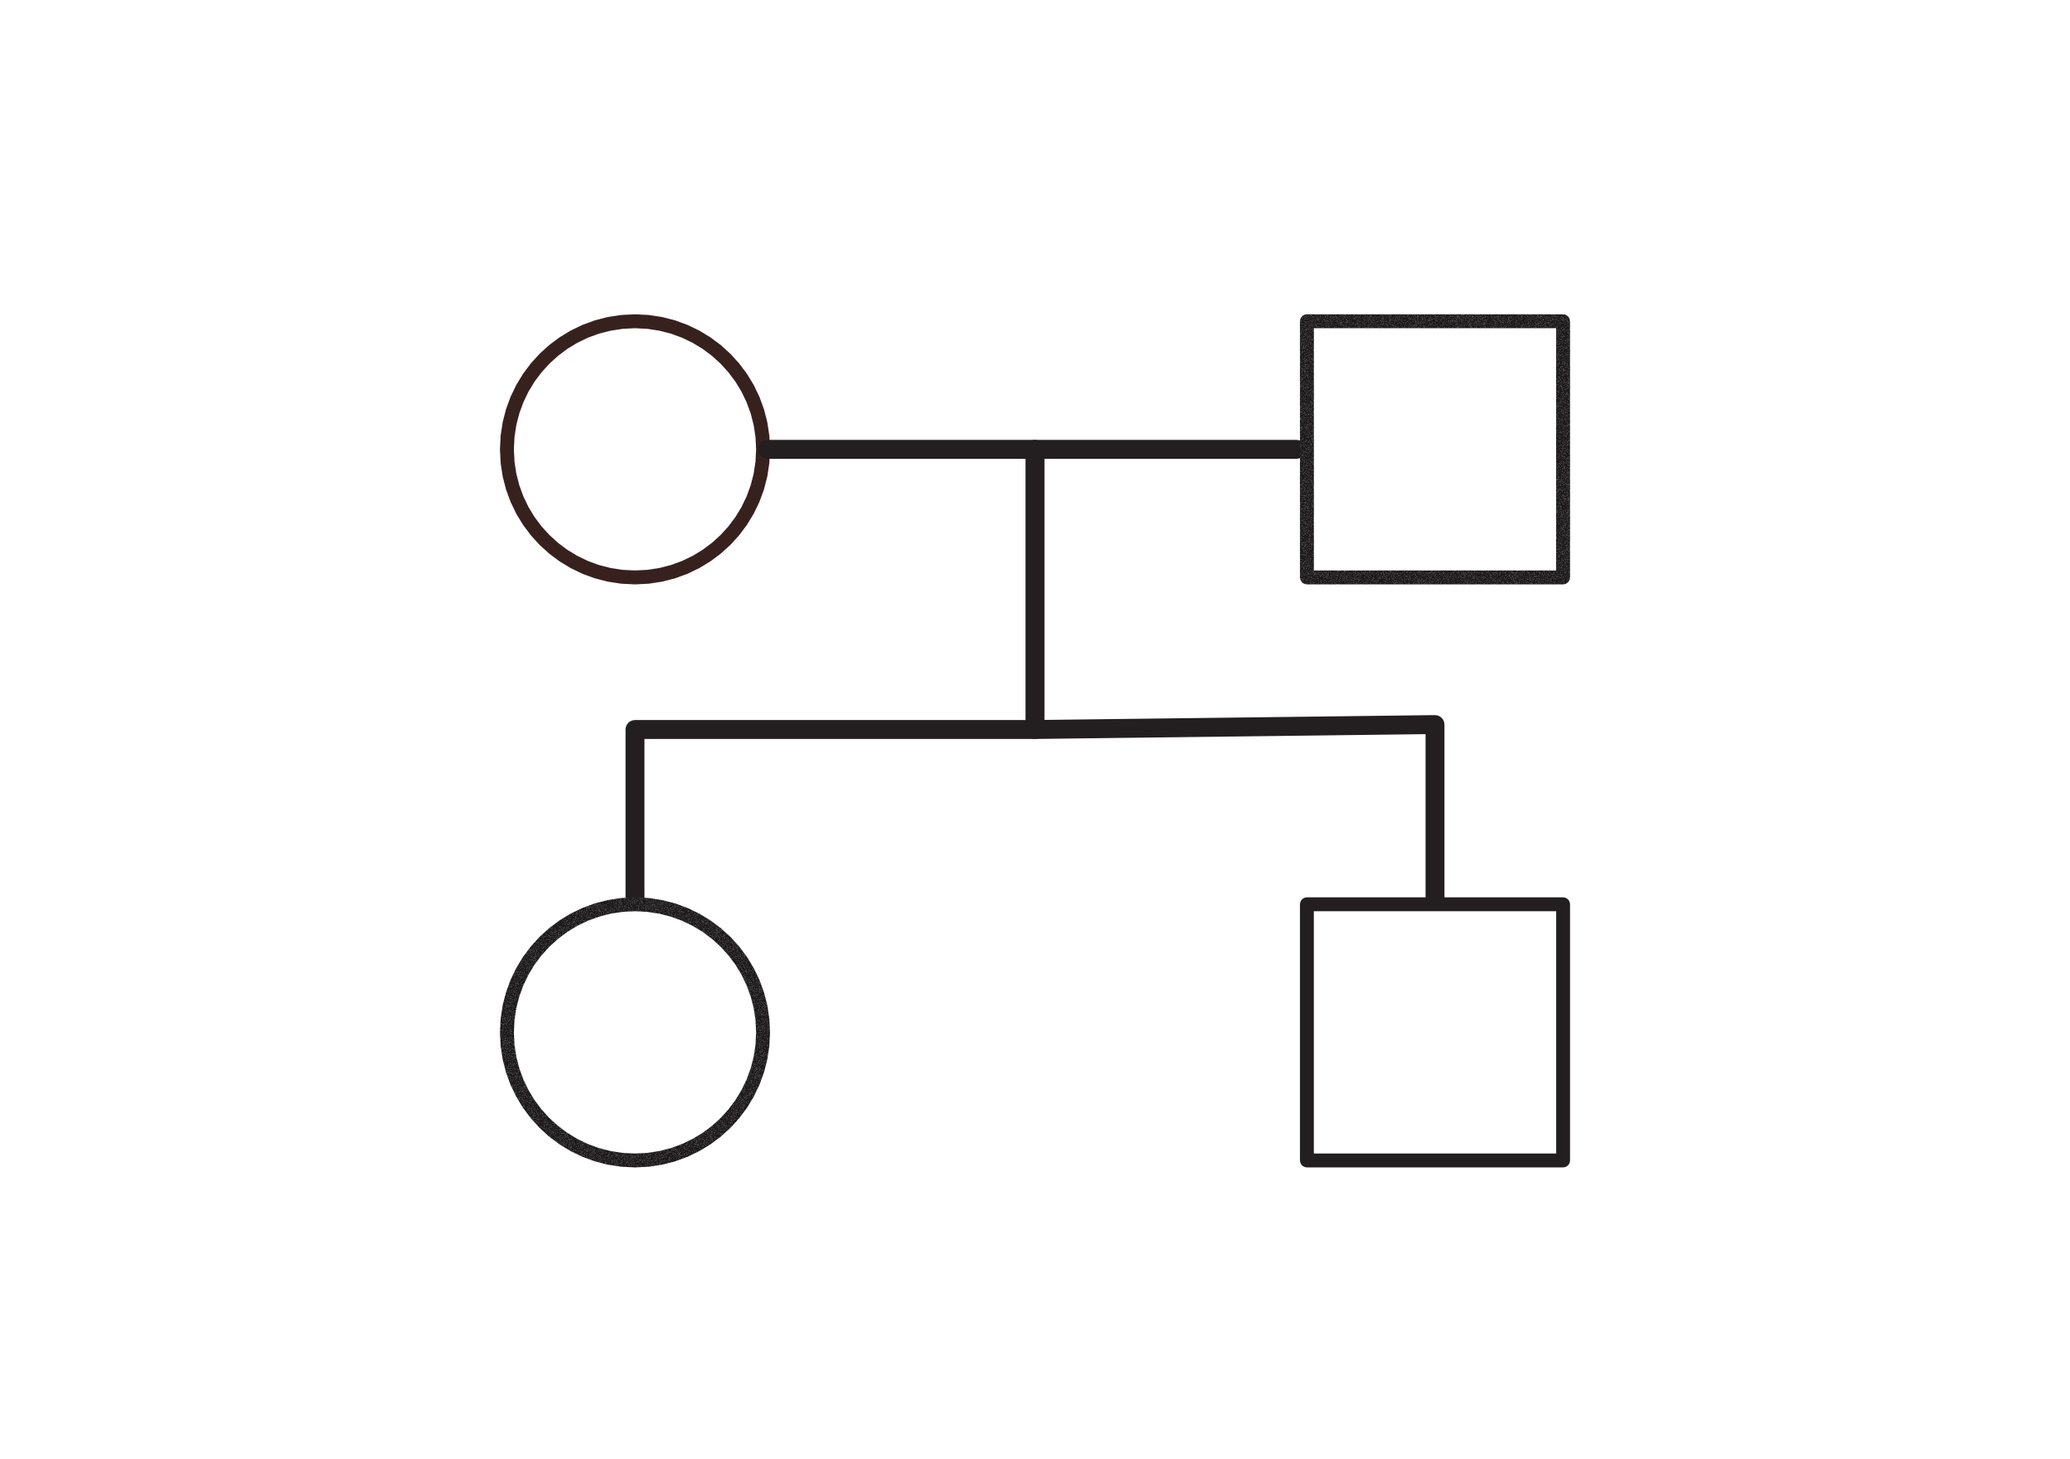
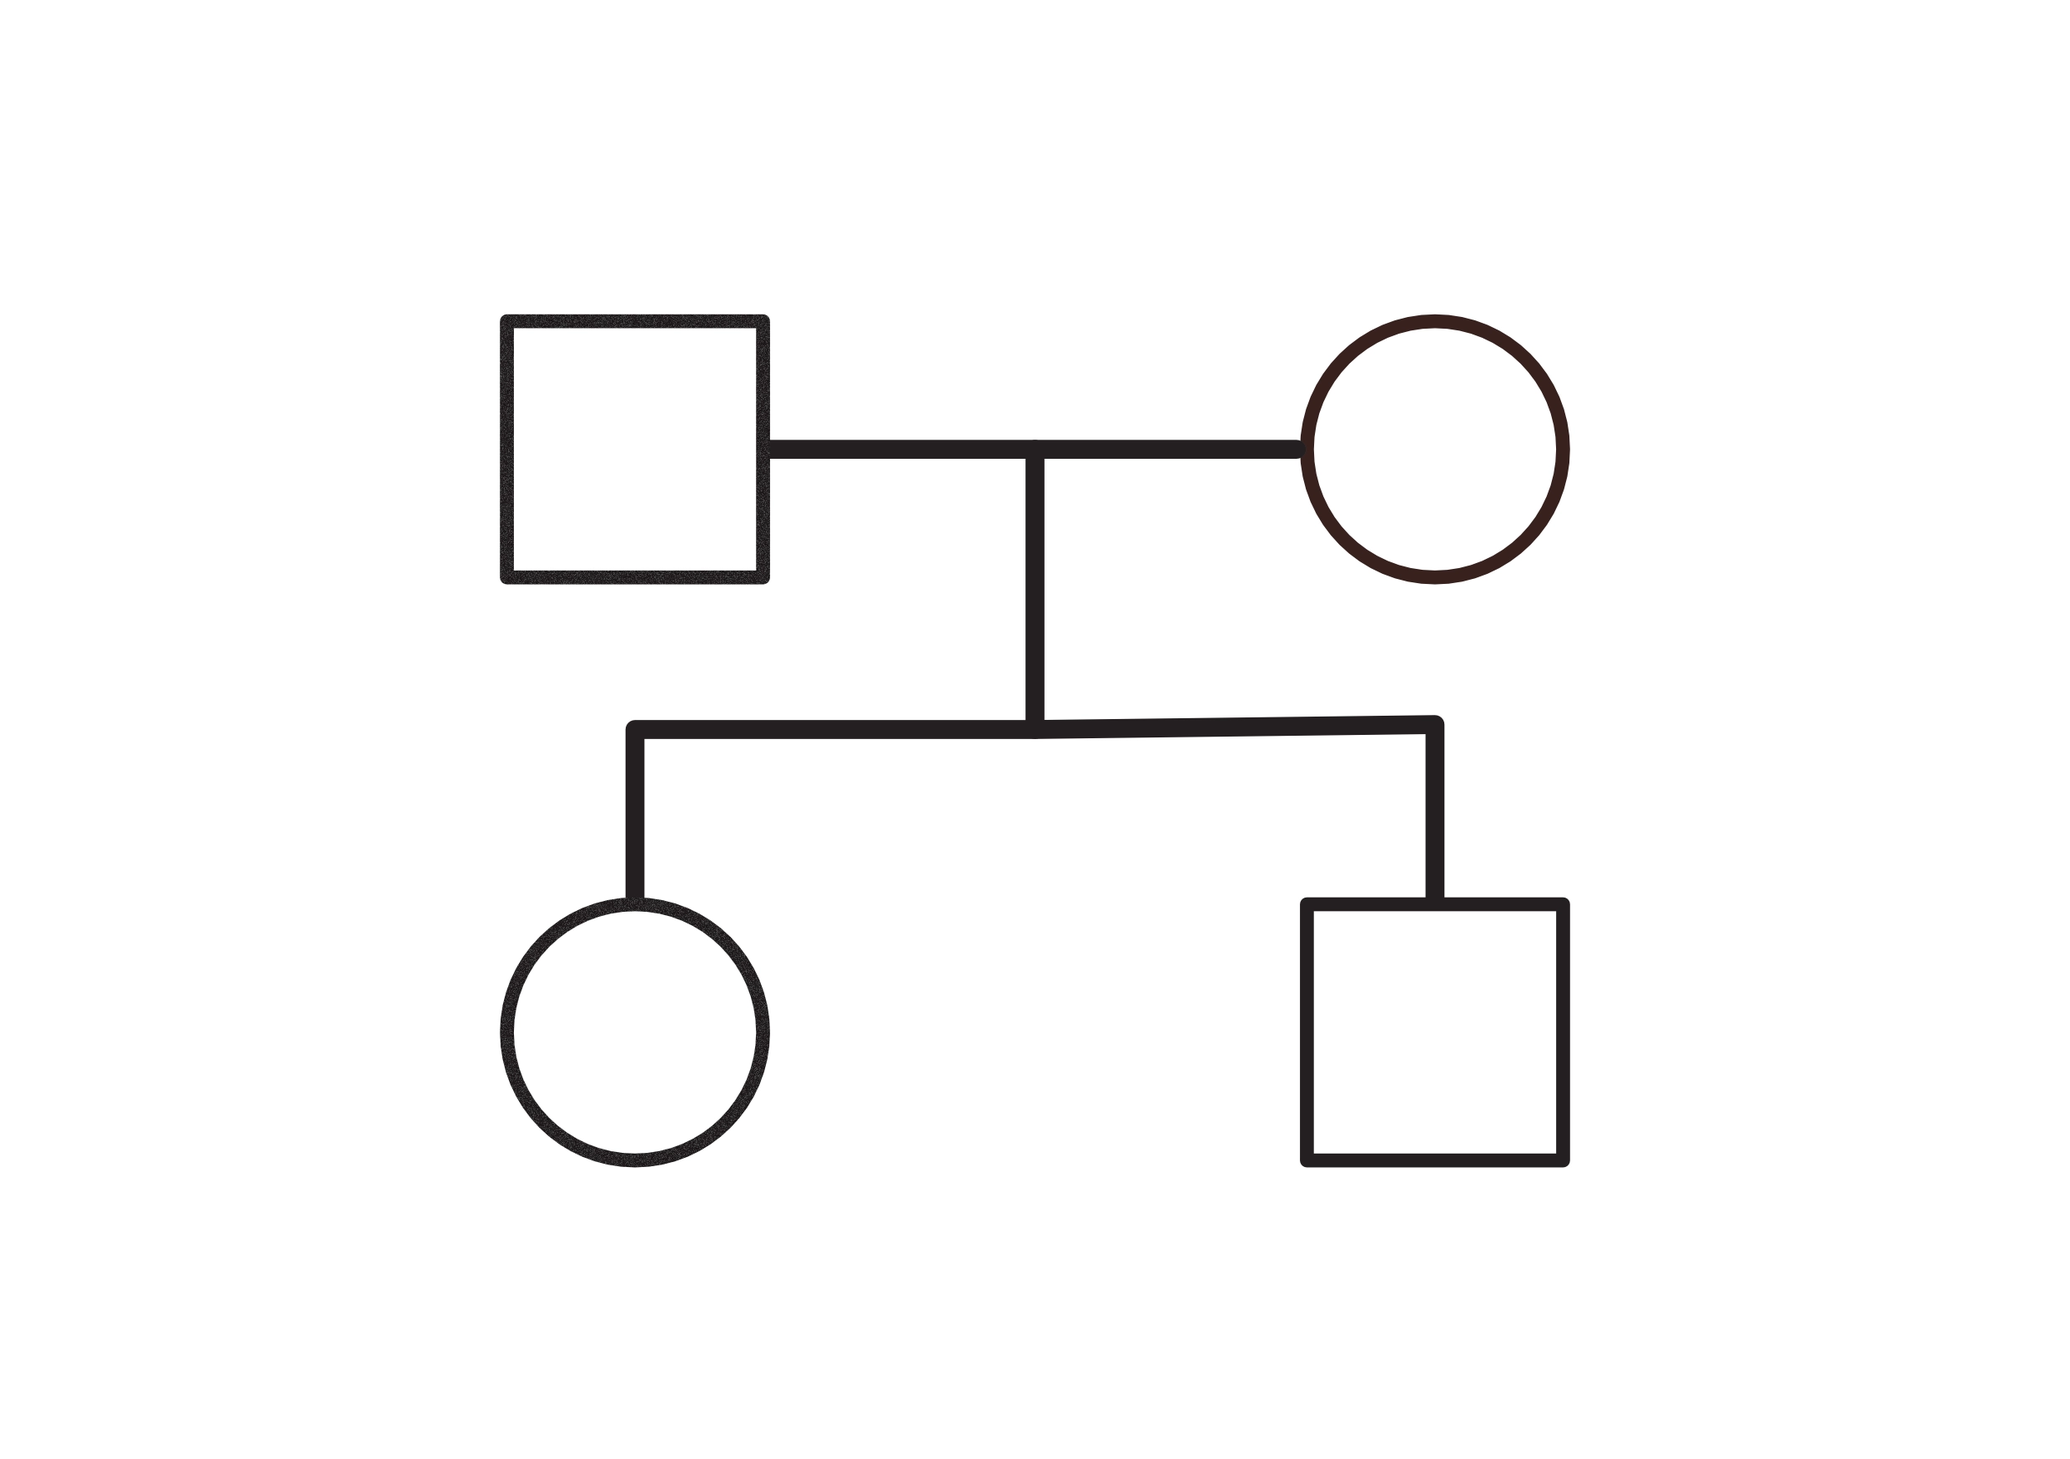
Refactor code structure for improved readability and maintainability

Changed region(s): [[0.6207, 0.2161, 0.7759, 0.4014], [0.2173, 0.2161, 0.3724, 0.4014]]

diff --git a/js/app.js b/js/app.js
@@ -15,7 +15,8 @@ const DATA_SHEET_ID = '1xFjjrZhBXZWlMkgARjrhQnZraRWS2uNUZfaNqvzQjV8';
 const LOCAL_PROJECT_CATALOG = {
     '1r ESO': [
         { id: 'p1_rates', titol: 'Rates a la carrera', descripcio: 'Projecte de biologia i matematiques.' },
-        { id: 'p1_mediterrani', titol: 'Mediterrani', descripcio: 'Historia i geografia del mar Mediterrani.' }
+        { id: 'p1_mediterrani', titol: 'Mediterrani', descripcio: 'Historia i geografia del mar Mediterrani.' },
+        { id: 'p1_biologia', titol: 'Biologia 1r ESO', descripcio: 'Conceptes de Biologia i material de laboratori.' }
     ],
     '2n ESO': [
         { id: 'p2_paralimpics', titol: 'Paralimpics', descripcio: 'Educacio fisica i valors.' },
@@ -23,11 +24,13 @@ const LOCAL_PROJECT_CATALOG = {
         { id: 'p2_radio', titol: 'Radio', descripcio: 'Comunicacio, locucio i edicio radiofonica.' }
     ],
     '3r ESO': [
-        { id: 'p3_solidart', titol: 'SolidArt', descripcio: 'Art i solidaritat.' }
+        { id: 'p3_solidart', titol: 'SolidArt', descripcio: 'Art i solidaritat.' },
+        { id: 'p3_biologia', titol: 'Biologia 3r ESO', descripcio: 'Biologia humana i activitats de repas.' }
     ],
     '4t ESO': [
         { id: 'p4_natura', titol: 'Entorns de Natura', descripcio: 'Medi ambient i sostenibilitat.' },
-        { id: 'p4_digitalitzacio', titol: 'Digitalitzacio', descripcio: 'Eines i recursos digitals per al segle XXI.' }
+        { id: 'p4_digitalitzacio', titol: 'Digitalitzacio', descripcio: 'Eines i recursos digitals per al segle XXI.' },
+        { id: 'p4_biologia', titol: 'Biologia 4t ESO', descripcio: 'Genetica, pedigrees i herencia.' }
     ],
     '1r Batxillerat': [
         { id: 'batx1_tr', titol: 'Treball de recerca', descripcio: 'Aprendre a formular bones preguntes investigables.' }
@@ -35,7 +38,8 @@ const LOCAL_PROJECT_CATALOG = {
     '2n Batxillerat': [],
     '1ESO': [
         { id: 'p1_rates', titol: 'Rates a la carrera', descripcio: 'Projecte de biologia i matematiques.' },
-        { id: 'p1_mediterrani', titol: 'Mediterrani', descripcio: 'Historia i geografia del mar Mediterrani.' }
+        { id: 'p1_mediterrani', titol: 'Mediterrani', descripcio: 'Historia i geografia del mar Mediterrani.' },
+        { id: 'p1_biologia', titol: 'Biologia 1r ESO', descripcio: 'Conceptes de Biologia i material de laboratori.' }
     ],
     '2ESO': [
         { id: 'p2_paralimpics', titol: 'Paralimpics', descripcio: 'Educacio fisica i valors.' },
@@ -43,11 +47,13 @@ const LOCAL_PROJECT_CATALOG = {
         { id: 'p2_radio', titol: 'Radio', descripcio: 'Comunicacio, locucio i edicio radiofonica.' }
     ],
     '3ESO': [
-        { id: 'p3_solidart', titol: 'SolidArt', descripcio: 'Art i solidaritat.' }
+        { id: 'p3_solidart', titol: 'SolidArt', descripcio: 'Art i solidaritat.' },
+        { id: 'p3_biologia', titol: 'Biologia 3r ESO', descripcio: 'Biologia humana i activitats de repas.' }
     ],
     '4ESO': [
         { id: 'p4_natura', titol: 'Entorns de Natura', descripcio: 'Medi ambient i sostenibilitat.' },
-        { id: 'p4_digitalitzacio', titol: 'Digitalitzacio', descripcio: 'Eines i recursos digitals per al segle XXI.' }
+        { id: 'p4_digitalitzacio', titol: 'Digitalitzacio', descripcio: 'Eines i recursos digitals per al segle XXI.' },
+        { id: 'p4_biologia', titol: 'Biologia 4t ESO', descripcio: 'Genetica, pedigrees i herencia.' }
     ],
     '1Batx': [
         { id: 'batx1_tr', titol: 'Treball de recerca', descripcio: 'Aprendre a formular bones preguntes investigables.' }
@@ -845,7 +851,10 @@ function getProjectVisuals() {
         'p4_natura': { icon: '<img src="assets/images/activities/entorns/cards/targeta_entorns-card.jpg" alt="Entorns de Natura" class="project-card__image" decoding="async">', gradient: 'linear-gradient(135deg, #10b981, #059669)' },
         'p2_paralimpics': { icon: '<img src="assets/images/activities/paralimpics/cards/targeta-paralimpics.png" alt="Paralimpics" class="project-card__image" decoding="async">', gradient: 'linear-gradient(135deg, #f97316, #ea580c)' },
         'p4_digitalitzacio': { icon: '<img src="assets/images/activities/digitalitzacio/cards/targeta-digitalitzacio.png" alt="Digitalitzacio" class="project-card__image" decoding="async">', gradient: 'linear-gradient(135deg, #a855f7, #7c3aed)' },
+        'p1_biologia': { icon: '<img src="assets/images/activities/biologia/cards/repas-biologia-humana.png" alt="Biologia 1r ESO" class="project-card__image" decoding="async">', gradient: 'linear-gradient(135deg, #14b8a6, #0f766e)' },
         'p2_biologia': { icon: '<img src="assets/images/activities/biologia/cards/biologia_humana.png" alt="Biologia Humana" class="project-card__image" decoding="async">', gradient: 'linear-gradient(135deg, #ec4899, #db2777)' },
+        'p3_biologia': { icon: '<img src="assets/images/activities/biologia/cards/biologia_humana.png" alt="Biologia 3r ESO" class="project-card__image" decoding="async">', gradient: 'linear-gradient(135deg, #ec4899, #db2777)' },
+        'p4_biologia': { icon: '<img src="assets/images/activities/biologia/cards/targeta-genetica.png" alt="Biologia 4t ESO" class="project-card__image" decoding="async">', gradient: 'linear-gradient(135deg, #8b5cf6, #6d28d9)' },
         'p2_radio': { icon: '<img src="assets/images/activities/radio/targeta-radio.png" alt="Radio" class="project-card__image" decoding="async">', gradient: 'linear-gradient(135deg, #facc15, #ca8a04)' },
         'batx1_tr': { icon: '<img src="assets/images/activities/treball-recerca/cards/targeta-tr.png" alt="Treball de recerca" class="project-card__image" decoding="async">', gradient: 'linear-gradient(135deg, #f43f5e, #e11d48)' }
     };
@@ -885,6 +894,10 @@ function renderProjectCards(grid, projects) {
         });
         grid.appendChild(card);
     });
+}
+
+function isBiologiaProject(projectId) {
+    return ['p1_biologia', 'p2_biologia', 'p3_biologia', 'p4_biologia'].includes(projectId);
 }
 
 async function getApiProjectsForCourses(courses) {
@@ -1047,7 +1060,7 @@ async function openProject(project) {
                 showDigitalitzacioMenu();
             }
         }
-    } else if (project.id === 'p2_biologia') {
+    } else if (isBiologiaProject(project.id)) {
         const hubDiv = await ensureProjectFragment(
             'project-hub-biologia',
             'fragments/projects/biologia/index.html'
@@ -1414,6 +1427,31 @@ const BIO_SENSE_TITLES = {
     tacte: 'Tacte'
 };
 
+const BIO_PROJECT_SCOPES = {
+    p1_biologia: ['conceptes', 'laboratori'],
+    p4_biologia: ['genetica']
+};
+
+function getCurrentBioProjectScope() {
+    const projectId = state.currentProject ? state.currentProject.id : '';
+    return BIO_PROJECT_SCOPES[projectId] || null;
+}
+
+function isBioSystemAllowed(systemId) {
+    const scope = getCurrentBioProjectScope();
+    return !scope || scope.includes(systemId);
+}
+
+function applyBioProjectScope() {
+    const scope = getCurrentBioProjectScope();
+
+    document.querySelectorAll('#bio-systems-menu [data-bio-system]').forEach(card => {
+        const systemId = card.getAttribute('data-bio-system');
+        const isVisible = !scope || scope.includes(systemId);
+        card.classList.toggle('hidden', !isVisible);
+    });
+}
+
 function showBioMenu() {
     setGameTitle(state.currentProject ? state.currentProject.titol : 'Biologia');
 
@@ -1424,6 +1462,7 @@ function showBioMenu() {
     const hub = document.getElementById('project-hub-biologia');
     if (hub) {
         document.getElementById('bio-systems-menu').classList.remove('hidden');
+        applyBioProjectScope();
         // Hide all sub-activity lists and individual activities
         document.querySelectorAll('#project-hub-biologia .activities-grid:not(#bio-systems-menu)').forEach(el => el.classList.add('hidden'));
         document.querySelectorAll('#project-hub-biologia .sub-activity').forEach(el => el.classList.add('hidden'));
@@ -1431,6 +1470,11 @@ function showBioMenu() {
 }
 
 function openBioSystem(systemId) {
+    if (!isBioSystemAllowed(systemId)) {
+        showBioMenu();
+        return;
+    }
+
     setGameTitle(BIO_SYSTEM_TITLES[systemId] || 'Biologia');
 
     if (typeof resetBioLabToolsGame === 'function') {

diff --git a/fragments/activities/biologia/index.html b/fragments/activities/biologia/index.html
@@ -2,7 +2,7 @@
 
                     <div id="bio-systems-menu" class="activities-grid mt-4">
                         <!-- 1. Digestiu -->
-                        <div class="activity-card activity-card--disabled">
+                        <div class="activity-card activity-card--disabled" data-bio-system="digestiu">
                             <div class="activity-card__media">
                                 <img src="assets/images/activities/biologia/systems/aparell-digestiu.png" alt="Aparell Digestiu" class="activity-card__image">
                             </div>
@@ -14,7 +14,7 @@
                         </div>
 
                         <!-- 2. Circulatori -->
-                        <div class="activity-card" onclick="openBioSystem('circulatori')">
+                        <div class="activity-card" data-bio-system="circulatori" onclick="openBioSystem('circulatori')">
                             <div class="activity-card__media">
                                 <img src="assets/images/activities/biologia/systems/aparell-ciculatori.png" alt="Aparell Circulatori" class="activity-card__image">
                             </div>
@@ -25,7 +25,7 @@
                         </div>
 
                         <!-- 3. Respiratori -->
-                        <div class="activity-card activity-card--disabled">
+                        <div class="activity-card activity-card--disabled" data-bio-system="respiratori">
                             <div class="activity-card__media">
                                 <img src="assets/images/activities/biologia/systems/aparell-respiratori.png" alt="Aparell Respiratori" class="activity-card__image">
                             </div>
@@ -37,7 +37,7 @@
                         </div>
 
                         <!-- 4. Excretor -->
-                        <div class="activity-card" onclick="openBioSystem('excretor')">
+                        <div class="activity-card" data-bio-system="excretor" onclick="openBioSystem('excretor')">
                             <div class="activity-card__media">
                                 <img src="assets/images/activities/biologia/systems/aparell-excretor.png" alt="Aparell Excretor" class="activity-card__image">
                             </div>
@@ -48,7 +48,7 @@
                         </div>
 
                         <!-- 5. Òrgans dels Sentits -->
-                        <div class="activity-card" onclick="openSenseMenu()">
+                        <div class="activity-card" data-bio-system="sentits" onclick="openSenseMenu()">
                             <div class="activity-card__media">
                                 <img src="assets/images/activities/biologia/senses/organs-sentits.png" alt="Òrgans dels Sentits" class="activity-card__image">
                             </div>
@@ -59,7 +59,7 @@
                         </div>
 
                         <!-- 6. Sistema Endocrí -->
-                        <div class="activity-card" onclick="openBioSystem('endocri')">
+                        <div class="activity-card" data-bio-system="endocri" onclick="openBioSystem('endocri')">
                             <div class="activity-card__media">
                                 <img src="assets/images/activities/biologia/systems/sistema-endocri.png" alt="Sistema Endocrí" class="activity-card__image">
                             </div>
@@ -70,7 +70,7 @@
                         </div>
 
                         <!-- 7. Aparell Locomotor -->
-                        <div class="activity-card" onclick="openBioSystem('locomotor')">
+                        <div class="activity-card" data-bio-system="locomotor" onclick="openBioSystem('locomotor')">
                             <div class="activity-card__media">
                                 <img src="assets/images/activities/biologia/systems/aparell-locomotor.png" alt="Aparell Locomotor" class="activity-card__image">
                             </div>
@@ -81,7 +81,7 @@
                         </div>
 
                         <!-- 8. Sistema Immunitari -->
-                        <div class="activity-card" onclick="openBioSystem('immunitari')">
+                        <div class="activity-card" data-bio-system="immunitari" onclick="openBioSystem('immunitari')">
                             <div class="activity-card__media">
                                 <img src="assets/images/activities/biologia/systems/sistema-immunitari.png" alt="Sistema Immunitari" class="activity-card__image" onerror="this.onerror=null; this.src='https://img.icons8.com/isometric/512/quiz.png';">
                             </div>
@@ -92,7 +92,7 @@
                         </div>
 
                         <!-- 9. Aparell Reproductor -->
-                        <div class="activity-card" onclick="openBioSystem('reproductor')">
+                        <div class="activity-card" data-bio-system="reproductor" onclick="openBioSystem('reproductor')">
                             <div class="activity-card__media">
                                 <img src="assets/images/activities/biologia/systems/aparell-reproductor.png" alt="Aparell Reproductor" class="activity-card__image" onerror="this.onerror=null; this.src='https://img.icons8.com/isometric/512/quiz.png';">
                             </div>
@@ -103,7 +103,7 @@
                         </div>
 
                         <!-- 10. Laboratori -->
-                        <div class="activity-card" onclick="openBioSystem('laboratori')">
+                        <div class="activity-card" data-bio-system="laboratori" onclick="openBioSystem('laboratori')">
                             <div class="activity-card__media">
                                 <img src="assets/images/activities/biologia/Lab/Labtools.png" alt="Laboratori de Biologia" class="activity-card__image" onerror="this.onerror=null; this.src='https://img.icons8.com/isometric/512/laboratory.png';">
                             </div>
@@ -114,7 +114,7 @@
                         </div>
 
                         <!-- 11. Conceptes -->
-                        <div class="activity-card" onclick="openBioSystem('conceptes')">
+                        <div class="activity-card" data-bio-system="conceptes" onclick="openBioSystem('conceptes')">
                             <div class="activity-card__media">
                                 <img src="assets/images/activities/biologia/cards/repas-biologia-humana.png" alt="Conceptes de Biologia" class="activity-card__image">
                             </div>
@@ -125,7 +125,7 @@
                         </div>
 
                         <!-- 12. Genètica -->
-                        <div class="activity-card" onclick="openBioSystem('genetica')">
+                        <div class="activity-card" data-bio-system="genetica" onclick="openBioSystem('genetica')">
                             <div class="activity-card__media">
                                 <img src="assets/images/activities/biologia/cards/targeta-genetica.png" alt="Genètica" class="activity-card__image">
                             </div>
@@ -360,7 +360,7 @@
                         </div>
                         <div class="activity-card" onclick="openBioActivity('genetica-pedigrees')">
                             <div class="activity-card__media">
-                                <img src="assets/images/activities/biologia/cards/targeta-genetica.png" alt="Pedigrees genetica" class="activity-card__image">
+                                <img src="assets/images/activities/biologia/cards/targeta-pedigrees.png" alt="Pedigrees genetica" class="activity-card__image">
                             </div>
                             <div class="activity-card__content">
                                 <div class="activity-card__title">Pedigrees i genotips</div>
